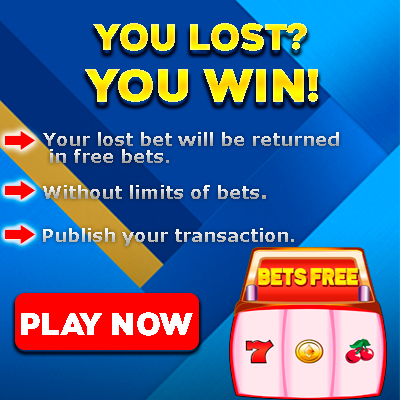
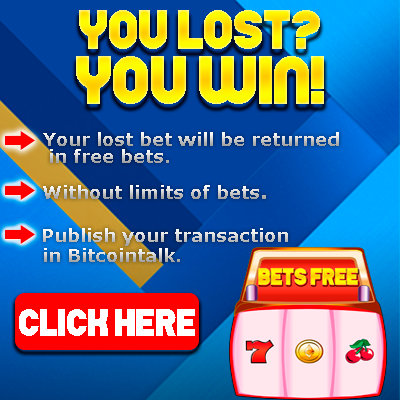
Add new rules in the promotion section

Changed region(s): [[0.18, 0.0, 0.84, 0.3], [0.03, 0.75, 0.51, 0.84], [0.09, 0.6, 0.45, 0.66]]

diff --git a/index.html b/index.html
@@ -731,17 +731,63 @@
                     <p>3. The url of the transaction made in the promotion thread must be published.</p>
                     <p>4. The public address that is in the url is to which the free bets are sent.</p>
                     <p>5. You will be awarded  free .01 ETH bets until you reach the lost amount.</p>
-                    <p>6. Each bet is awarded within 4 hours of your last free bet.</p>
-                    <p>7. No other free bet can be awarded until you play the previously one</p>
+                    <p>6. Bets are delivered between 3:00 and 11:00 p.m. Respecting the UTC Schedule.</p>
+                    <p>7. Each bet is awarded within 4 hours of your last free bet.</p>
+                    <p>8. No other free bet can be awarded until you play the previously one</p>
                     <p class="strong">Example 1:</p>
                     <p class="italic">Betting: .01 ETH = 1 free bet of .01 ETH</p>
+                    <table>
+                        <tr>
+                            <th class="borde-vertical">Betting amount</th>
+                            <th class="borde-vertical">Free bets</th>
+                            <th>Value of the bet</th>
+                        </tr>
+                        <tr>
+                            <td class="borde-horizontal borde-vertical">.01 ETH</td>
+                            <td class="borde-horizontal borde-vertical">1 Bet free</td>
+                            <td class="borde-horizontal">.01 ETH</td>
+                        </tr>
+                    </table>
                     <p class="strong">Ejemplo 2:</p>
+                    <table>
+                        <tr>
+                            <th class="borde-vertical">Betting amount</th>
+                            <th class="borde-vertical">Free bets</th>
+                            <th>Value of the bet</th>
+                        </tr>
+                        <tr>
+                            <td rowspan="5" class="borde-horizontal borde-vertical">.05 ETH</td>
+                            <td class="borde-horizontal borde-vertical">1 Bet free</td>
+                            <td class="borde-horizontal">.01 ETH</td>
+                        </tr>
+                        <tr>
+                            <td class="borde-horizontal borde-vertical">1 Bet free</td>
+                            <td class="borde-horizontal">.01 ETH</td>
+                        </tr>
+                        <tr>
+                            <td class="borde-horizontal borde-vertical">1 Bet free</td>
+                            <td class="borde-horizontal">.01 ETH</td>
+                        </tr>
+                        <tr>
+                            <td class="borde-horizontal borde-vertical">1 Bet free</td>
+                            <td class="borde-horizontal">.01 ETH</td>
+                        </tr>
+                        <tr>
+                            <td class="borde-horizontal borde-vertical">1 Bet free</td>
+                            <td class="borde-horizontal">.01 ETH</td>
+                        </tr>
+                        <tr>
+                            <td class="borde-horizontal"></td>
+                            <td class="borde-horizontal borde-vertical"></td>
+                            <td class="borde-horizontal">Total: .05 ETH</td>
+                        </tr>
+                    </table>
                     <p class="italic">Betting: .05 ETH = 5 free bets .01 ETH</p>
                     <p>In the course of 4 hours, you will be awarded 1 bet of .01 ETH</p>
-                    <p>If the first free bet is charged at 2:00 p.m., the next bet will be awarded at 6 p. M. At most, but if that bet is played until 7 p.m., the 4 hours will start running from that moment.</p>
+                    <p>If the first free bet is charged at 3:00 p.m. (UTC), the next bet will be awarded at 7 p. M. (UTC) at most, but if that bet is played until 8 p.m. (UTC). The 4 hours will start running from that moment.</p>
                     <p>* Until it reaches the amount of bets that matches the reward.</p>
                     <p>8. To collect the free bets, you must make the transaction at 0 ETH in our contract, or click on the following link:</p>
-                    <p>9. This promotion is valid until the existence of the 2,000 available refunds is exhausted. (A refund equals a free bet of: 0.01 ETH), or until the limited date of March 31, 2018.</p>
+                    <p>10. This promotion is valid until the existence of the 2,000 available refunds is exhausted. (A refund equals a free bet of: 0.01 ETH), or until the limited date of March 31, 2018.</p>
                     <p></p>
                 </div>
             </div>

diff --git a/css/style.css b/css/style.css
@@ -1053,3 +1053,15 @@ Free bets
     width: 100%;
     font-size: 14px;
 }
+
+#reglas-modal table th{
+    padding-right: 15px;
+    color: rgb(254, 210, 50);
+}
+
+#reglas-modal table{
+    text-align: center;
+    border: none;
+    border-radius: 5px;
+    box-shadow: 0px 2px 5px rgba(255, 210, 50, 0.9);
+}
